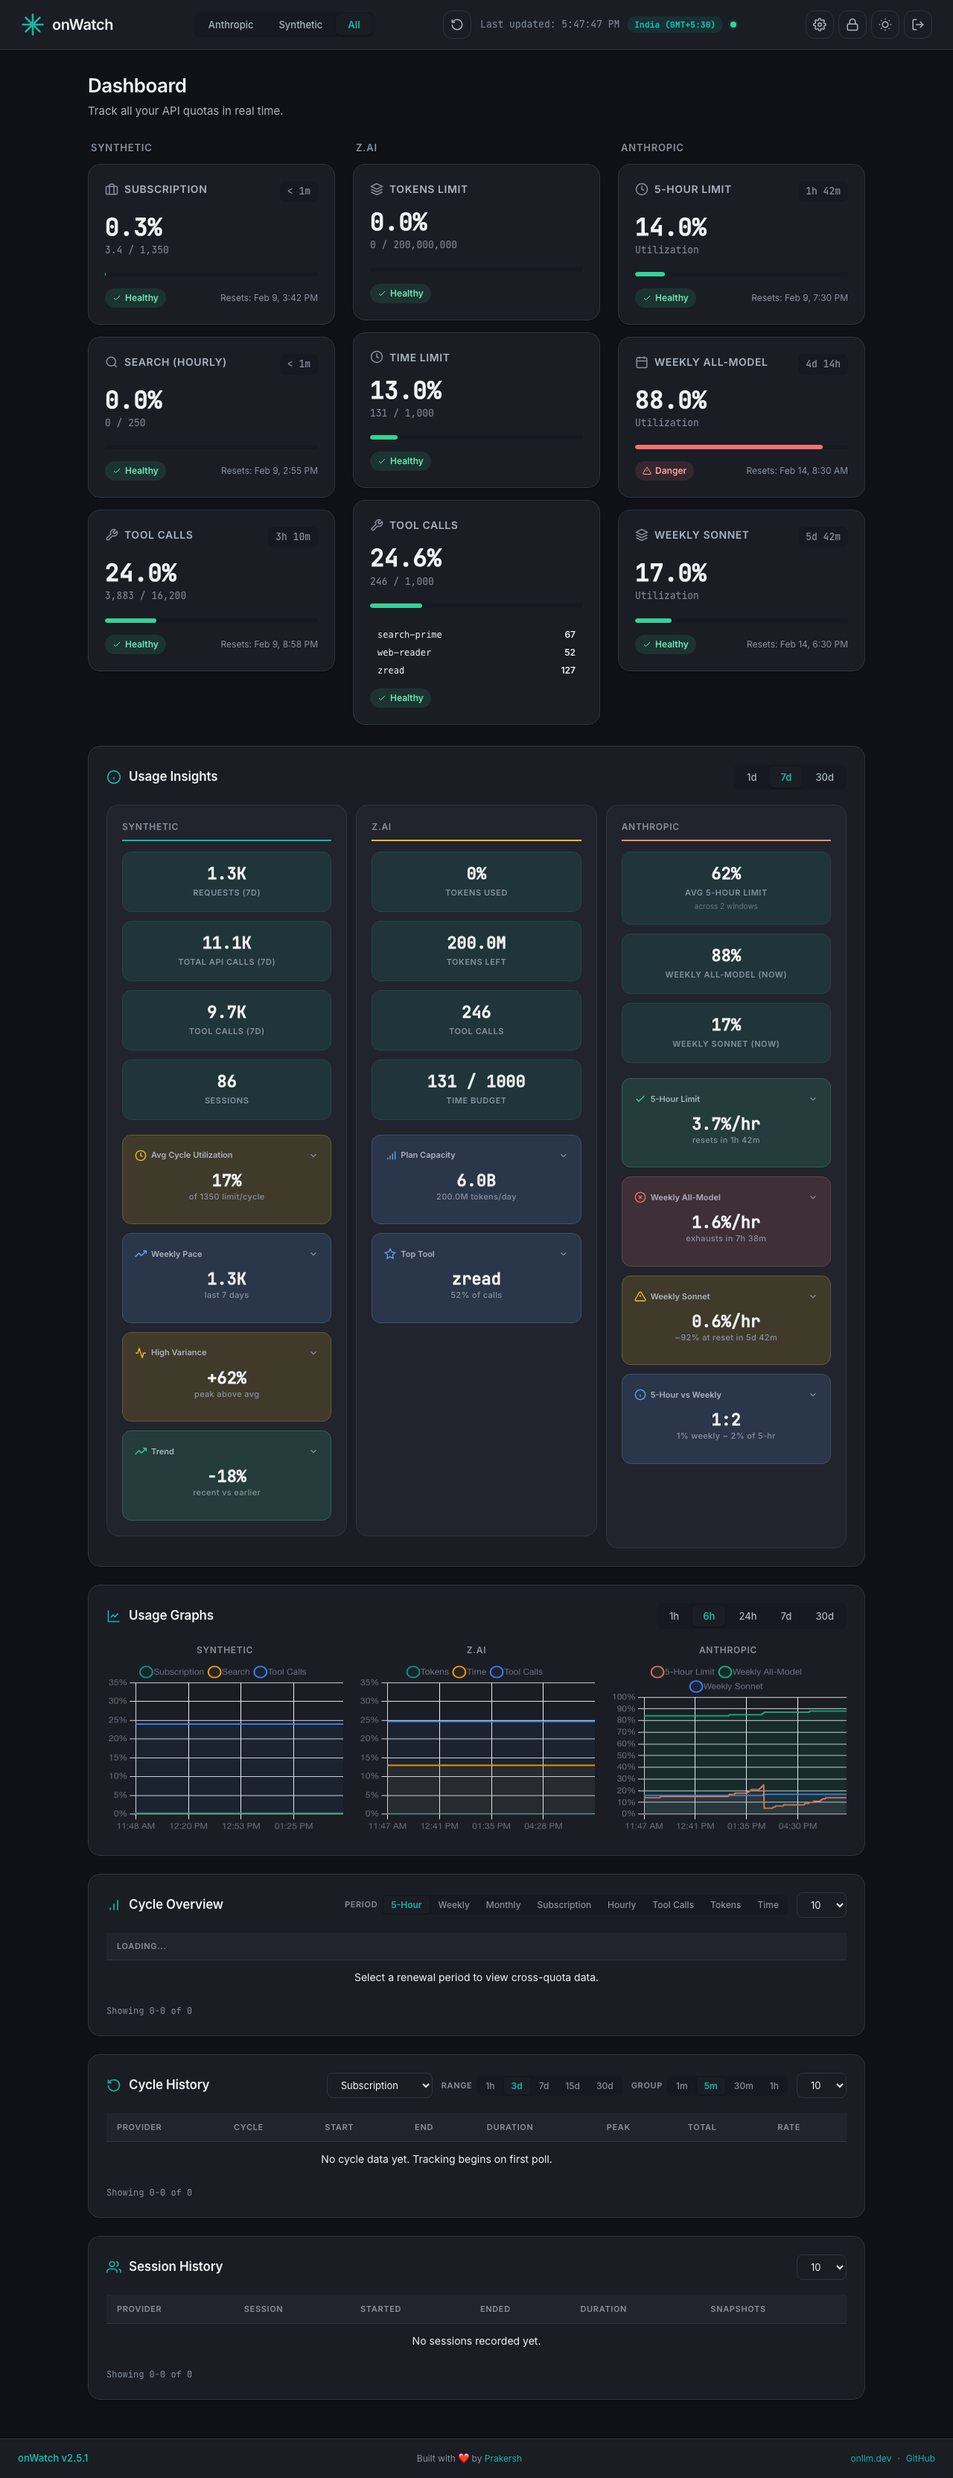
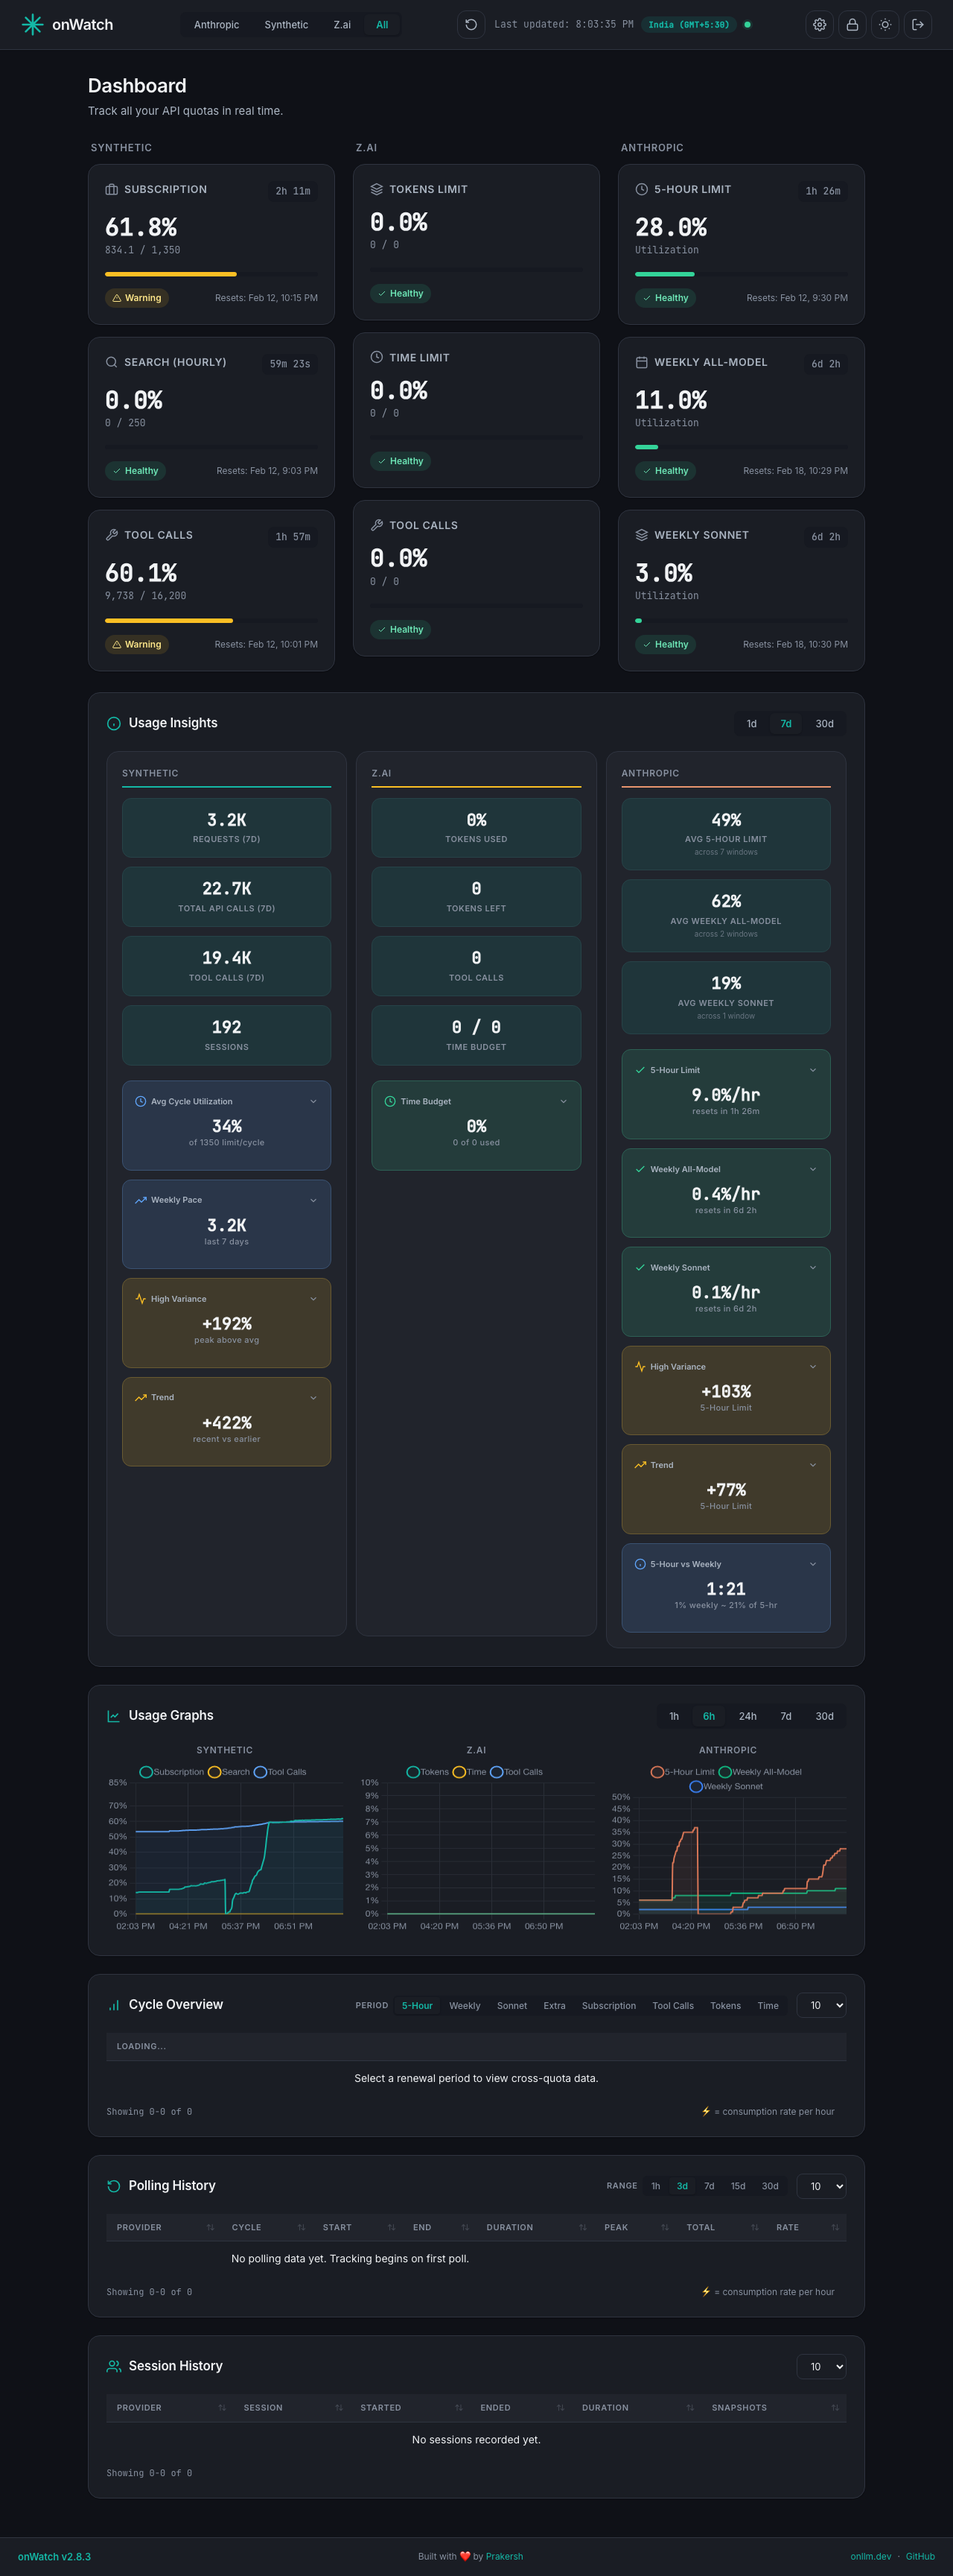
chore(release): bump version to 2.9.0 and update screenshots
- Update VERSION to 2.9.0
- Update landing page version references
- Refresh all dashboard screenshots for all providers (light/dark)
  - anthropic-light/dark.png
  - synthetic-light/dark.png
  - zai-light/dark.png
  - all-light/dark.png

diff --git a/landing/index.html b/landing/index.html
@@ -48,7 +48,7 @@
       "url": "https://onwatch.onllm.dev",
       "applicationCategory": "DeveloperApplication",
       "operatingSystem": "macOS, Linux, Windows",
-      "softwareVersion": "2.8.0",
+      "softwareVersion": "2.9.0",
       "license": "https://www.gnu.org/licenses/gpl-3.0.en.html",
       "isAccessibleForFree": true,
       "offers": {
@@ -2189,7 +2189,7 @@ a:hover { text-decoration: underline; }
                 <code><span class="install-prefix">$</span> curl -fsSL https://raw.githubusercontent.com/onllm-dev/onwatch/main/install.sh | bash</code>
                 <span class="copy-hint">Copy</span>
             </div>
-            <p class="hero-meta"><span id="hero-version">v2.8.0</span> &middot; Go &middot; GPL-3.0 &middot; Zero Telemetry &middot; <50 MB RAM &middot; ~13 MB Binary</p>
+            <p class="hero-meta"><span id="hero-version">v2.9.0</span> &middot; Go &middot; GPL-3.0 &middot; Zero Telemetry &middot; <50 MB RAM &middot; ~13 MB Binary</p>
         </div>
 
         <!-- Dashboard Mockup -->
